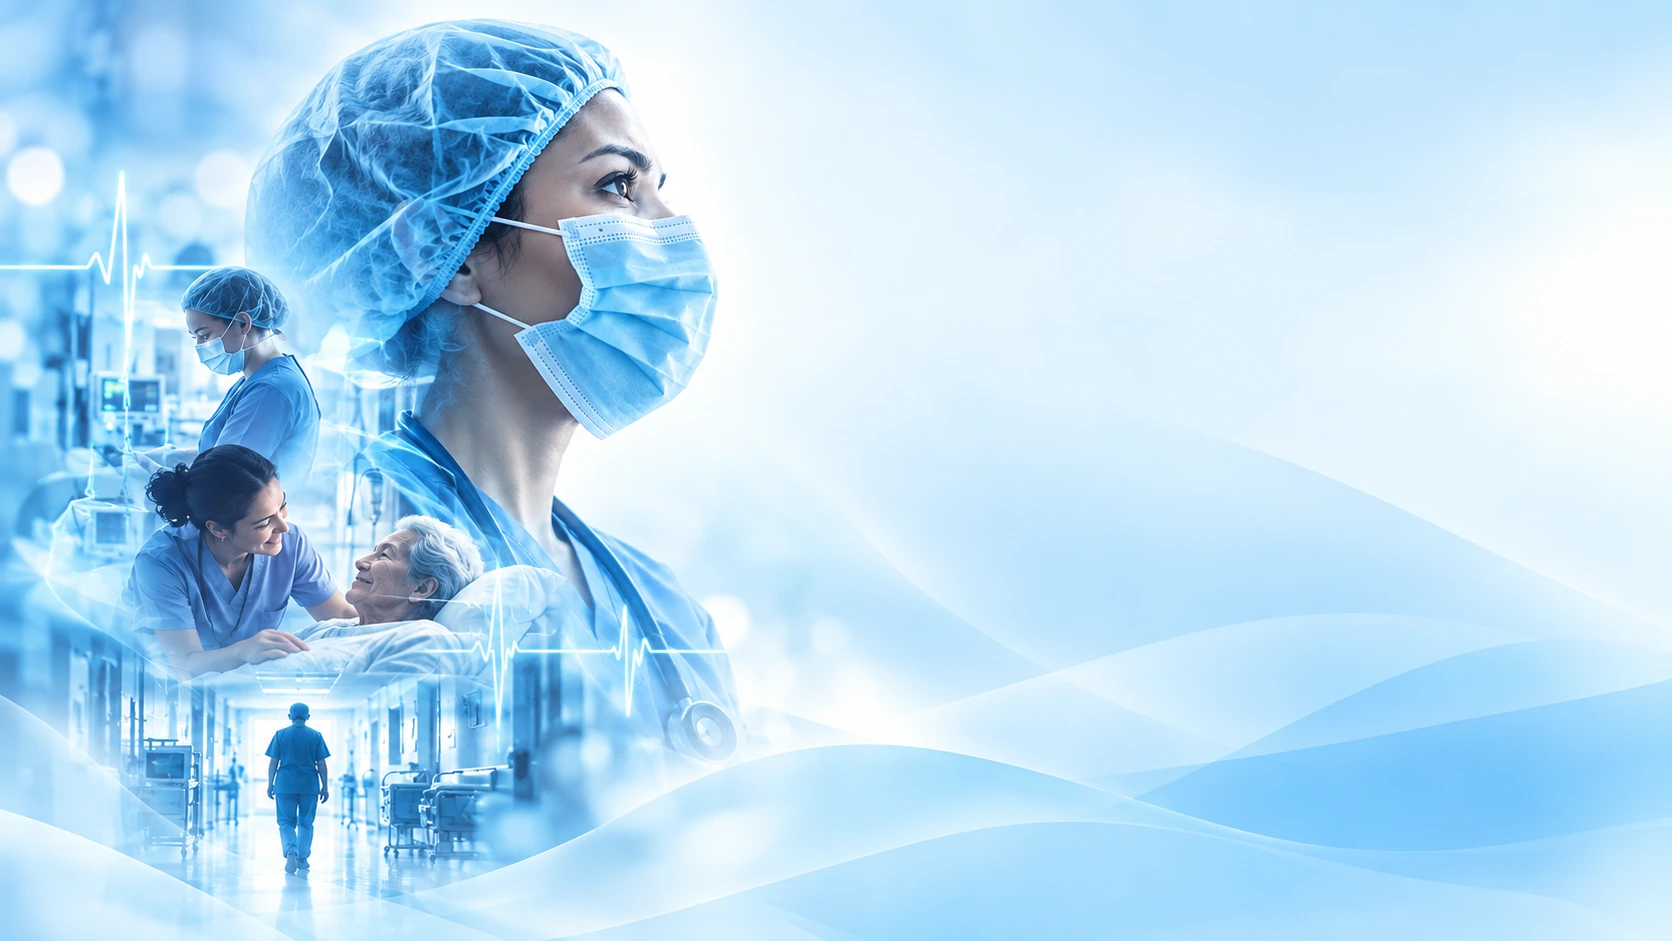
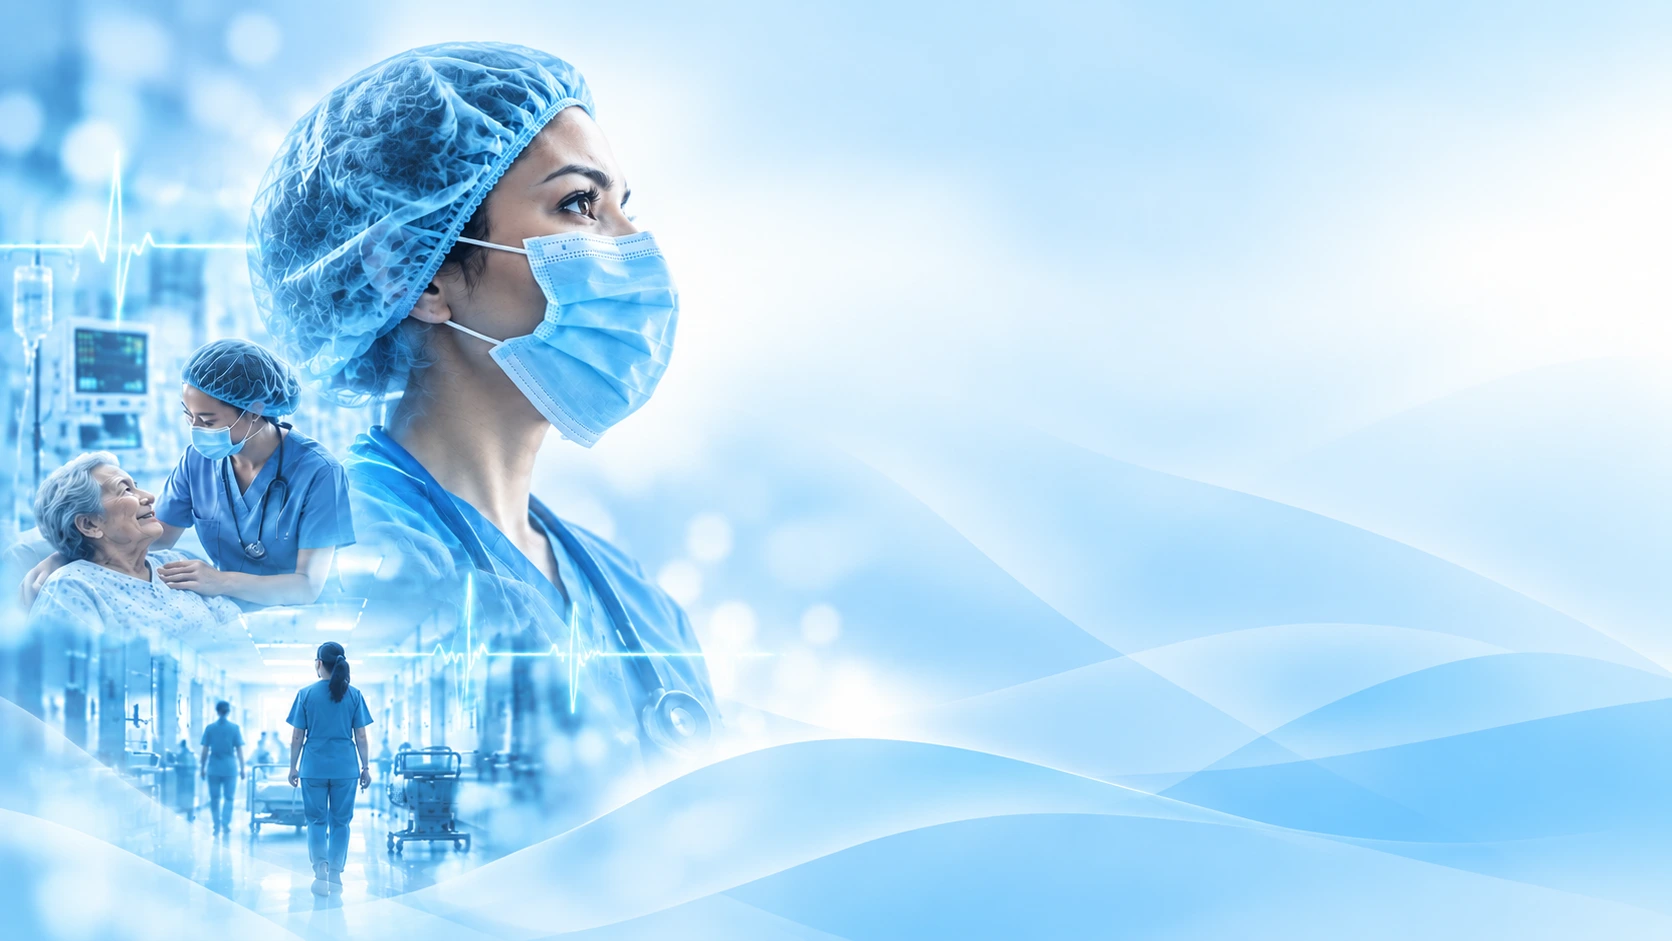
feat(s1): expand registration flows with detailed steps and placeholder fields

diff --git a/web/src/pages/auth/AuthPage.tsx b/web/src/pages/auth/AuthPage.tsx
@@ -7,7 +7,7 @@ import { z } from 'zod'
 import { apiClient, type FamilyDto } from '../../services/apiClient'
 import { useAppDispatch, useAppSelector } from '../../store/hooks'
 import { signIn, registerFamilyUser, registerDoctorUser, signedIn } from '../../store/slices/authSlice'
-import { AuthStepper } from '../../components/auth/AuthStepper'
+import { AuthStepper, type StepDef } from '../../components/auth/AuthStepper'
 import logoUrl from '../../assets/logo.png'
 import loginBg from '../../assets/Loging.webp'
 import registerBg from '../../assets/Register.webp'
@@ -22,6 +22,10 @@ const accountSchema = z.object({
   displayName: z.string().trim().min(1, 'Enter your display name.').max(120),
   email: z.string().email('Enter a valid email address.'),
   password: z.string().min(12, 'Use at least 12 characters.').max(128),
+  confirm: z.string().min(1, 'Confirm your password.'),
+}).refine((d) => d.password === d.confirm, {
+  message: 'Passwords do not match.',
+  path: ['confirm'],
 })
 
 export function AuthPage() {
@@ -46,11 +50,15 @@ export function AuthPage() {
   const [regName, setRegName] = useState('')
   const [regEmail, setRegEmail] = useState('')
   const [regPassword, setRegPassword] = useState('')
+  const [regConfirm, setRegConfirm] = useState('')
   
   // Role Details
   const [familyName, setFamilyName] = useState('')
   const [dateOfBirth, setDateOfBirth] = useState('')
+  
+  const [connectionMethod, setConnectionMethod] = useState<'INVITATION' | 'LATER'>('INVITATION')
   const [invitationToken, setInvitationToken] = useState('')
+  
   const [regNum, setRegNum] = useState('')
   const [specialty, setSpecialty] = useState('')
   
@@ -61,10 +69,6 @@ export function AuthPage() {
   }, [location])
 
   if (isAuthenticated && authStatus !== 'loading') {
-    // If they just registered, we might still need to finish onboarding inside the wizard,
-    // but if the wizard is complete, we navigate. Wait, if isAuthenticated becomes true during Step 2 API call,
-    // we need to prevent this redirect from interrupting Step 3!
-    // Actually, it's safer to only redirect if they are not in the middle of registration.
     if (mode === 'login' || (user && user.role !== 'ONBOARDING')) {
       if (user?.role === 'DOCTOR' && user?.verificationStatus !== 'VERIFIED') return <Navigate to="/doctor-status" replace />
       return <Navigate to={user?.role === 'ONBOARDING' ? '/onboarding' : '/dashboard'} replace />
@@ -100,32 +104,36 @@ export function AuthPage() {
   const handleNextStep = () => {
     setRegError('')
     if (regStep === 1) {
-      const parsed = accountSchema.safeParse({ displayName: regName, email: regEmail, password: regPassword })
+      const parsed = accountSchema.safeParse({ displayName: regName, email: regEmail, password: regPassword, confirm: regConfirm })
       if (!parsed.success) {
         setRegError(parsed.error.issues[0]?.message ?? 'Check your details.')
         return
       }
     }
+    
+    if (regStep === 2) {
+      if (role === 'FAMILY_HEAD') {
+        if (!dateOfBirth) { setRegError('Date of birth is required.'); return }
+        if (!familyName) { setRegError('Family workspace name is required.'); return }
+      } else if (role === 'MEMBER') {
+        if (!dateOfBirth) { setRegError('Date of birth is required.'); return }
+      } else if (role === 'DOCTOR') {
+        if (!regNum || regNum.length < 4) { setRegError('Enter a valid SLMC registration number.'); return }
+      }
+    }
+
+    if (regStep === 3 && role === 'MEMBER') {
+      if (connectionMethod === 'INVITATION' && !invitationToken) {
+        setRegError('Invitation token is required.'); return
+      }
+    }
+
     setRegStep((s) => s + 1)
   }
 
   async function handleRegister(event: FormEvent<HTMLFormElement>) {
     event.preventDefault()
     setRegError('')
-    
-    // Final Validation
-    if (role === 'DOCTOR' && (!regNum || regNum.length < 4)) {
-      setRegError('Enter a valid synthetic registration identifier.')
-      return
-    }
-    if (role === 'FAMILY_HEAD' && (!familyName || !dateOfBirth)) {
-      setRegError('Workspace name and your date of birth are required.')
-      return
-    }
-    if (role === 'MEMBER' && (!invitationToken || !dateOfBirth)) {
-      setRegError('Invitation token and your date of birth are required.')
-      return
-    }
 
     try {
       // Step 1: Create Identity
@@ -139,7 +147,6 @@ export function AuthPage() {
           currentUser = res
         }
       }
-
       if (!currentUser) throw new Error('Account creation failed')
 
       // Step 2: Role Specific Onboarding
@@ -161,9 +168,14 @@ export function AuthPage() {
         navigate('/dashboard', { replace: true })
       } 
       else if (role === 'MEMBER') {
-        await apiClient.post('/families/invitations/accept', { token: invitationToken.trim(), dateOfBirth })
-        dispatch(signedIn({ ...currentUser, role: 'MEMBER' }))
-        navigate('/dashboard', { replace: true })
+        if (connectionMethod === 'INVITATION') {
+          await apiClient.post('/families/invitations/accept', { token: invitationToken.trim(), dateOfBirth })
+          dispatch(signedIn({ ...currentUser, role: 'MEMBER' }))
+          navigate('/dashboard', { replace: true })
+        } else {
+          // Join Later
+          navigate('/onboarding', { replace: true })
+        }
       }
     } catch (err: any) {
       setRegError(err.message || 'Registration failed. Check details.')
@@ -172,6 +184,17 @@ export function AuthPage() {
 
   const mainBg = mode === 'login' ? loginBg : registerBg;
   const textBg = mode === 'login' ? registerBg : loginBg;
+
+  let steps: StepDef[] = []
+  if (role === 'FAMILY_HEAD') {
+    steps = [{ label: 'Role' }, { label: 'Account' }, { label: 'Personal' }, { label: 'Review' }]
+  } else if (role === 'MEMBER') {
+    steps = [{ label: 'Role' }, { label: 'Account' }, { label: 'Personal' }, { label: 'Connection' }, { label: 'Review' }]
+  } else if (role === 'DOCTOR') {
+    steps = [{ label: 'Role' }, { label: 'Account' }, { label: 'Professional' }, { label: 'Verification' }, { label: 'Review' }]
+  }
+
+  const isFinalStep = regStep === steps.length - 1
 
   return (
     <main aria-label={mode === 'login' ? 'Sign in' : 'Create account'} 
@@ -223,12 +246,9 @@ export function AuthPage() {
           <div className="auth-form-content auth-form-register">
             <h2 style={{ fontSize: '2rem', marginBottom: '16px' }}>Sign up</h2>
             
-            <AuthStepper 
-              steps={[{ label: 'Role' }, { label: 'Account' }, { label: 'Profile' }]} 
-              currentStep={regStep} 
-            />
+            <AuthStepper steps={steps} currentStep={regStep} />
             
-            <form onSubmit={regStep === 2 ? handleRegister : (e) => { e.preventDefault(); handleNextStep() }} noValidate>
+            <form onSubmit={isFinalStep ? handleRegister : (e) => { e.preventDefault(); handleNextStep() }} noValidate>
               
               {/* STEP 0: ROLE */}
               {regStep === 0 && (
@@ -268,17 +288,25 @@ export function AuthPage() {
                     <label htmlFor="reg-email">Email Address</label>
                     <input id="reg-email" type="email" className="auth-form-input" value={regEmail} required autoComplete="email" onChange={(e) => setRegEmail(e.target.value)} />
                   </div>
+                  <div className="auth-form-group" style={{ opacity: 0.5 }}>
+                    <label>Mobile Number <em>(Coming Soon)</em></label>
+                    <input className="auth-form-input" disabled placeholder="Not currently supported by API" />
+                  </div>
                   <div className="auth-form-group">
-                    <label htmlFor="reg-password">Create Password (12+ characters)</label>
+                    <label htmlFor="reg-password">Create Password</label>
                     <input id="reg-password" type="password" className="auth-form-input" value={regPassword} required minLength={12} onChange={(e) => setRegPassword(e.target.value)} />
+                  </div>
+                  <div className="auth-form-group">
+                    <label htmlFor="reg-confirm">Confirm Password</label>
+                    <input id="reg-confirm" type="password" className="auth-form-input" value={regConfirm} required onChange={(e) => setRegConfirm(e.target.value)} />
                   </div>
                 </div>
               )}
 
-              {/* STEP 2: PROFILE */}
+              {/* STEP 2: PERSONAL / PROFESSIONAL */}
               {regStep === 2 && (
                 <div>
-                  {role === 'DOCTOR' && (
+                  {role === 'DOCTOR' ? (
                     <>
                       <div className="auth-form-group">
                         <label htmlFor="reg-num">SLMC Registration Number</label>
@@ -288,37 +316,114 @@ export function AuthPage() {
                         <label htmlFor="reg-specialty">Specialty / Designation</label>
                         <input id="reg-specialty" className="auth-form-input" value={specialty} onChange={(e) => setSpecialty(e.target.value)} />
                       </div>
-                    </>
-                  )}
-                  {role === 'FAMILY_HEAD' && (
-                    <>
-                      <div className="auth-form-group">
-                        <label htmlFor="reg-fam-name">Family Workspace Name</label>
-                        <input id="reg-fam-name" className="auth-form-input" value={familyName} required onChange={(e) => setFamilyName(e.target.value)} />
-                      </div>
-                      <div className="auth-form-group">
-                        <label htmlFor="reg-dob-head">Your Date of Birth</label>
-                        <input id="reg-dob-head" type="date" className="auth-form-input" value={dateOfBirth} required onChange={(e) => setDateOfBirth(e.target.value)} />
+                      <div className="auth-form-group" style={{ opacity: 0.5 }}>
+                        <label>Hospital / Practice City / District <em>(Coming Soon)</em></label>
+                        <input className="auth-form-input" disabled placeholder="Fields require API support" />
                       </div>
                     </>
-                  )}
-                  {role === 'MEMBER' && (
+                  ) : (
                     <>
                       <div className="auth-form-group">
-                        <label htmlFor="reg-token">Invitation Token</label>
-                        <input id="reg-token" className="auth-form-input" value={invitationToken} required onChange={(e) => setInvitationToken(e.target.value)} />
+                        <label htmlFor="reg-dob">Date of Birth</label>
+                        <input id="reg-dob" type="date" className="auth-form-input" value={dateOfBirth} required onChange={(e) => setDateOfBirth(e.target.value)} />
                       </div>
-                      <div className="auth-form-group">
-                        <label htmlFor="reg-dob-member">Your Date of Birth</label>
-                        <input id="reg-dob-member" type="date" className="auth-form-input" value={dateOfBirth} required onChange={(e) => setDateOfBirth(e.target.value)} />
+                      {role === 'FAMILY_HEAD' && (
+                        <div className="auth-form-group">
+                          <label htmlFor="reg-fam-name">Family Workspace Name</label>
+                          <input id="reg-fam-name" className="auth-form-input" value={familyName} required onChange={(e) => setFamilyName(e.target.value)} />
+                        </div>
+                      )}
+                      <div className="auth-form-group" style={{ opacity: 0.5 }}>
+                        <label>Address & NIC <em>(Coming Soon)</em></label>
+                        <input className="auth-form-input" disabled placeholder="Fields require API support" />
                       </div>
                     </>
                   )}
                 </div>
               )}
 
+              {/* STEP 3: SPECIFIC (Member Connection / Doctor Verification / Family Head Review) */}
+              {regStep === 3 && (
+                <div>
+                  {role === 'MEMBER' && (
+                    <>
+                      <div 
+                        className={`auth-role-card ${connectionMethod === 'INVITATION' ? 'selected' : ''}`}
+                        onClick={() => setConnectionMethod('INVITATION')}
+                      >
+                        <div className="auth-role-title">Option A — I have an Invitation</div>
+                        <div className="auth-role-desc">Enter a token provided by a Family Head.</div>
+                      </div>
+                      <div 
+                        className={`auth-role-card ${connectionMethod === 'LATER' ? 'selected' : ''}`}
+                        onClick={() => setConnectionMethod('LATER')}
+                      >
+                        <div className="auth-role-title">Option C — Join Later</div>
+                        <div className="auth-role-desc">Create independent account and join a family later.</div>
+                      </div>
+                      
+                      {connectionMethod === 'INVITATION' && (
+                        <div className="auth-form-group" style={{ marginTop: '16px' }}>
+                          <label htmlFor="reg-token">Invitation Token</label>
+                          <input id="reg-token" className="auth-form-input" value={invitationToken} required onChange={(e) => setInvitationToken(e.target.value)} />
+                        </div>
+                      )}
+                    </>
+                  )}
+                  {role === 'DOCTOR' && (
+                    <div style={{ color: 'rgba(255,255,255,0.9)', backgroundColor: 'rgba(20, 108, 255, 0.1)', padding: '16px', borderRadius: '8px', border: '1px solid #146CFF' }}>
+                      <h3 style={{ marginBottom: '8px' }}>Manual Verification Required</h3>
+                      <p style={{ fontSize: '0.9rem', lineHeight: '1.5' }}>
+                        Your professional profile will be reviewed by an administrator before clinical access is enabled. 
+                        Do not expect immediate access.
+                      </p>
+                      <div style={{ marginTop: '16px', opacity: 0.5 }}>
+                        <label>Medical License Upload <em>(Coming Soon)</em></label>
+                        <input className="auth-form-input" disabled placeholder="Document upload requires API support" />
+                      </div>
+                    </div>
+                  )}
+                  {role === 'FAMILY_HEAD' && (
+                    <div className="auth-review-list">
+                      <p><strong>Account:</strong> {regName} ({regEmail})</p>
+                      <p><strong>Workspace:</strong> {familyName}</p>
+                      <p><strong>Date of Birth:</strong> {dateOfBirth}</p>
+                      <p style={{ marginTop: '12px', fontSize: '0.85rem', color: 'rgba(255,255,255,0.7)' }}>
+                        By creating an account, you agree to our Terms of Service and Privacy Policy.
+                      </p>
+                    </div>
+                  )}
+                </div>
+              )}
+
+              {/* STEP 4: FINAL REVIEW (Member / Doctor) */}
+              {regStep === 4 && (
+                <div>
+                  {role === 'MEMBER' && (
+                    <div className="auth-review-list">
+                      <p><strong>Account:</strong> {regName} ({regEmail})</p>
+                      <p><strong>Date of Birth:</strong> {dateOfBirth}</p>
+                      <p><strong>Connection:</strong> {connectionMethod === 'INVITATION' ? `Joining via Token (${invitationToken})` : 'Joining Later'}</p>
+                    </div>
+                  )}
+                  {role === 'DOCTOR' && (
+                    <div className="auth-review-list">
+                      <p><strong>Account:</strong> {regName} ({regEmail})</p>
+                      <p><strong>SLMC Registration:</strong> {regNum}</p>
+                      {specialty && <p><strong>Specialty:</strong> {specialty}</p>}
+                      <div style={{ marginTop: '16px', fontSize: '0.9rem', color: '#f59e0b' }}>
+                        ⚠ Clinical access will remain blocked until your credentials are verified.
+                      </div>
+                    </div>
+                  )}
+                  <p style={{ marginTop: '12px', fontSize: '0.85rem', color: 'rgba(255,255,255,0.7)' }}>
+                    By clicking submit, you agree to our Terms of Service and Privacy Policy.
+                  </p>
+                </div>
+              )}
+
               {(regError || (mode === 'register' && authError)) && (
-                <div style={{ color: '#ef4444', fontSize: '0.9rem', marginBottom: '16px' }}>{regError || authError}</div>
+                <div style={{ color: '#ef4444', fontSize: '0.9rem', marginBottom: '16px', marginTop: '16px' }}>{regError || authError}</div>
               )}
 
               <div className="auth-btn-row">
@@ -328,7 +433,7 @@ export function AuthPage() {
                   </button>
                 )}
                 <button type="submit" disabled={authStatus === 'loading'} className="auth-form-button" style={{ marginTop: 0 }}>
-                  {regStep < 2 ? 'Continue' : authStatus === 'loading' ? 'Creating...' : 'Complete Sign up'}
+                  {isFinalStep ? (authStatus === 'loading' ? 'Submitting...' : (role === 'DOCTOR' ? 'Submit for Review' : 'Create Account')) : 'Continue'}
                 </button>
               </div>
             </form>
